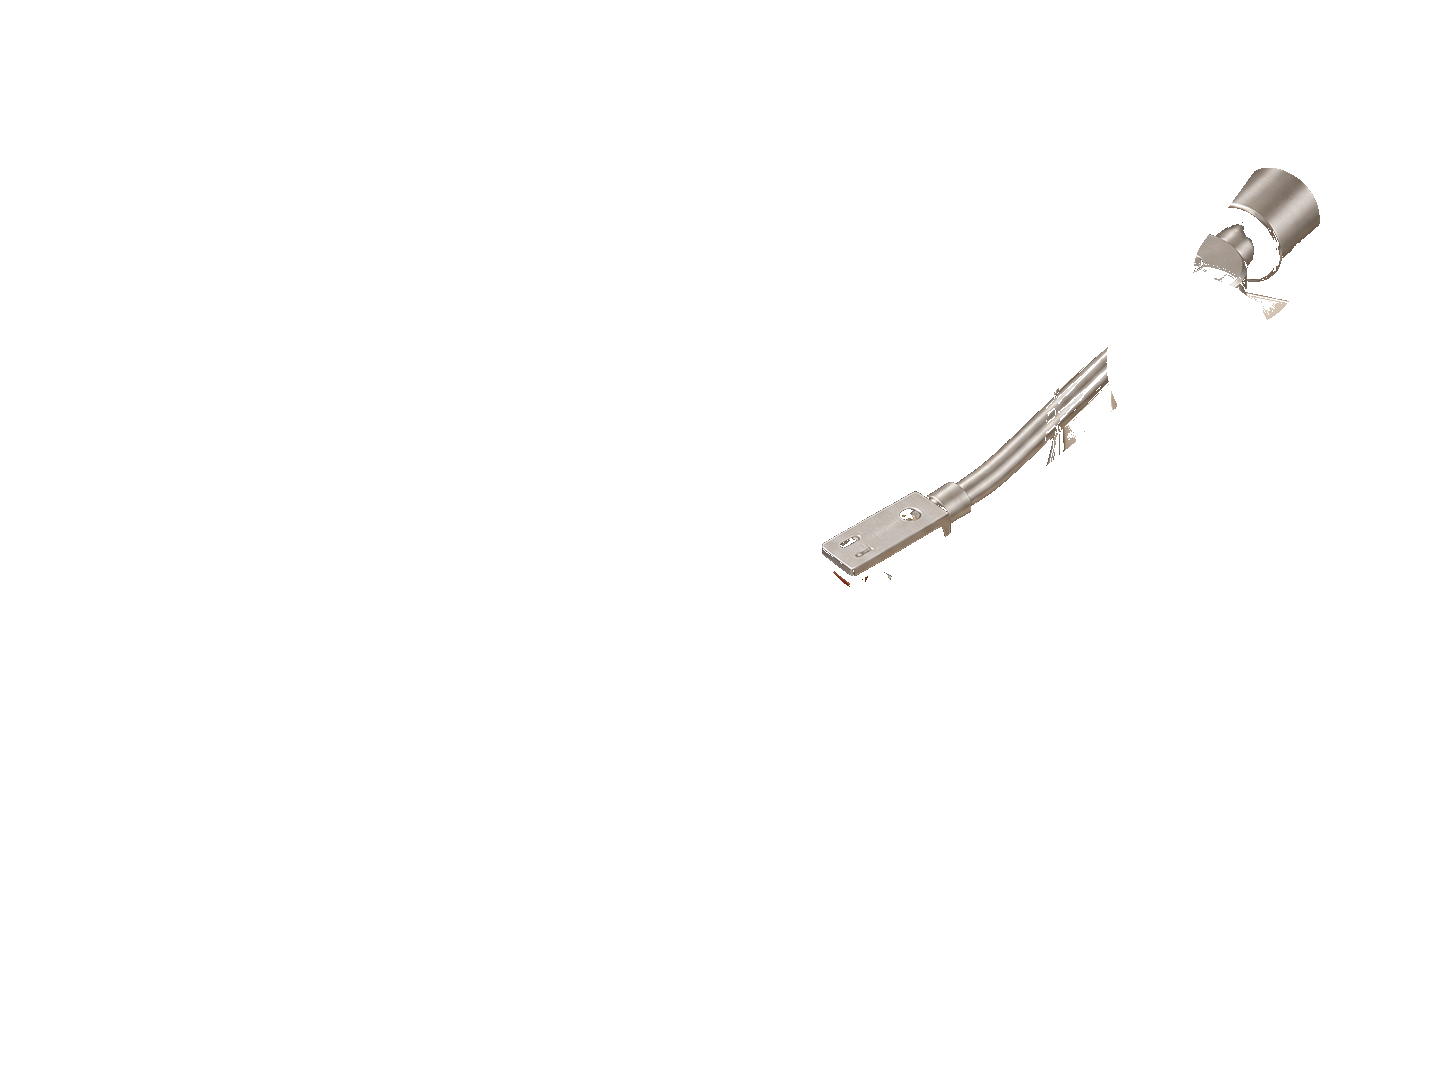
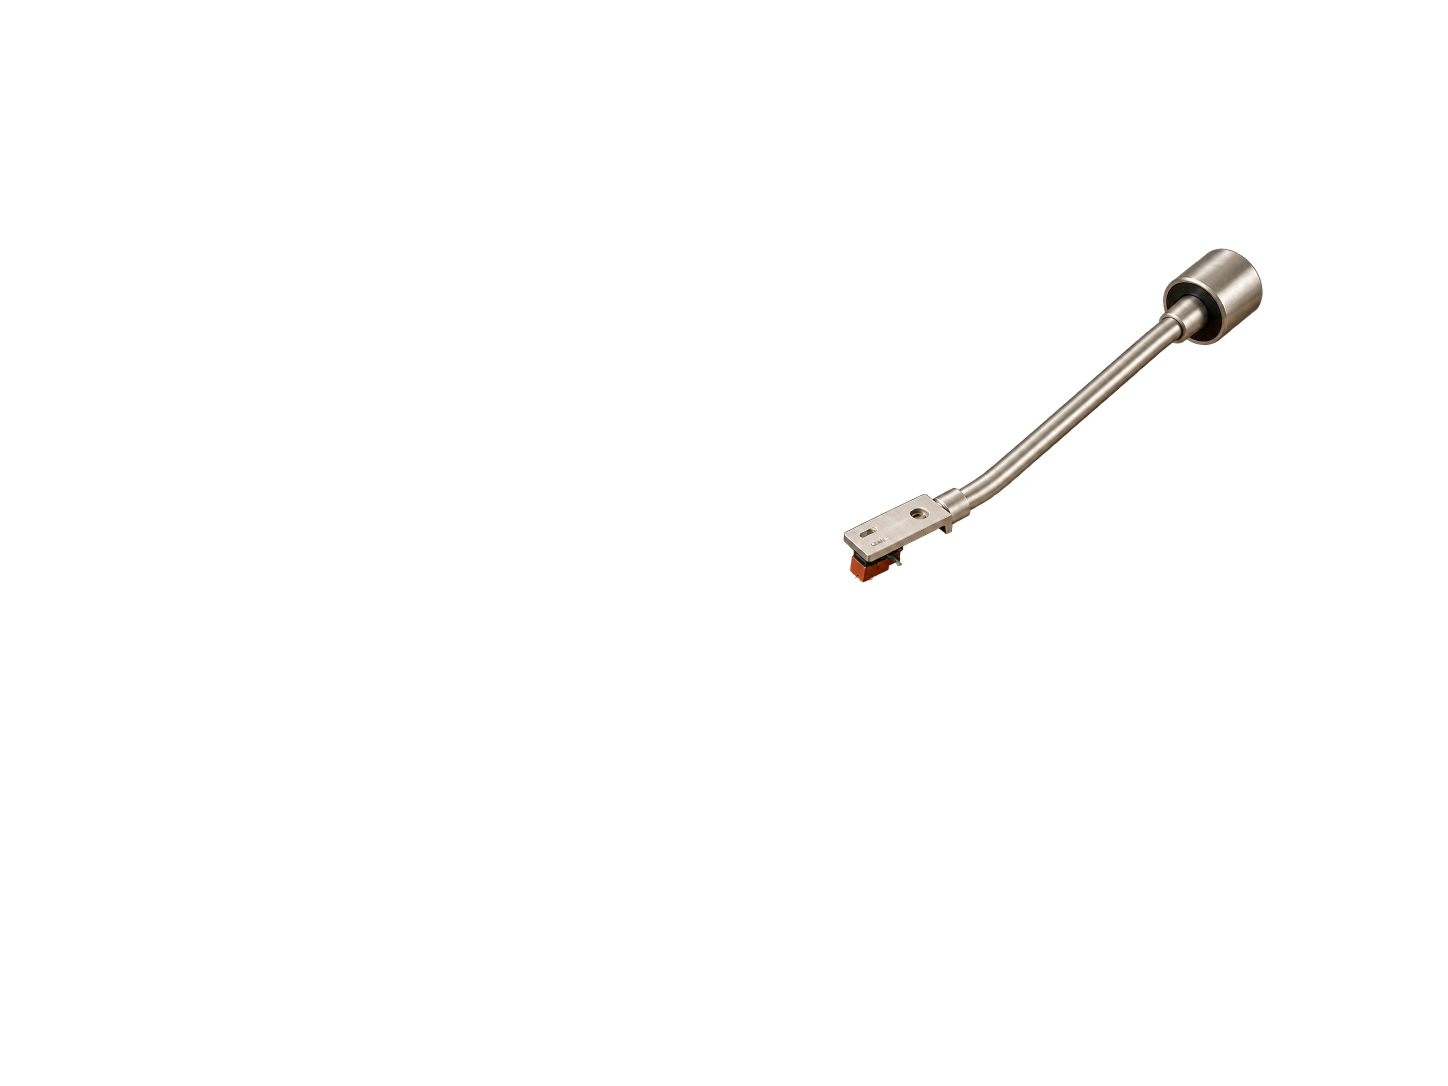
Rebuild the tonearm from its own asset; swap the pulsing ring for a deck marking
The arm was being cut out of turntable-master-reference.png, which fringed
and broke up: master and base are separate generations whose bodies don't
line up, so pixels lifted near the bearing doubled its edges, and no
threshold cleanly separated a silver arm from a cream deck. Several passes
of band masking, morphology and feathering all still showed the seams.

tonearm-overlay.png turns out to be the right source after all — it is a
cleanly matted transparent render on the same canvas, and the earlier
reading that it "didn't match" was about framing, not perspective: its arm
is drawn 1.8x longer at 4 degrees off. scripts/extractTonearm.js now fits
it with a similarity transform instead. Matching its collar to the bearing
rather than its counterweight tip is what seats it mechanically; fitting
the tips left the tube lying across the bearing like a pipe. That also
moves the rotation origin onto the collar, so the cue-down swings from the
joint instead of sliding it out of its housing.

The focus ring pulsing around the dial is replaced by a play mark printed
on the deck below it, squashed into the deck's plane by the same factor as
the record so it sits on the surface. It stays put rather than retiring
after first use — it labels the control, it isn't a nudge.

Changed region(s): [[0.5594, 0.1519, 0.9323, 0.547]]

diff --git a/scripts/extractTonearm.js b/scripts/extractTonearm.js
@@ -1,0 +1,76 @@
+// Builds public/images/tonearm-cutout-v2.png — the tonearm layer the hero
+// composites over turntable-base.png.
+//
+// The arm comes from tonearm-overlay.png, which is already a cleanly matted
+// transparent render. Cutting one out of turntable-master-reference.png was
+// tried first and looked wrong: master and base are two separate generations
+// whose bodies don't line up, so pixels lifted near the bearing doubled its
+// edges and the matte fringed wherever the arm crossed the cream deck.
+//
+// tonearm-overlay.png shares the 1448x1086 canvas but draws the arm longer
+// and at a slightly different angle, so it is fitted with a similarity
+// transform: its counterweight and stylus tips are mapped onto where those
+// points sit in the master reference, which is where the arm reads correctly
+// against this deck.
+//
+//   node scripts/extractTonearm.js
+
+import sharp from 'sharp'
+
+const W = 1448, H = 1086
+
+// Two-point fit. Matching the arm's collar to the deck's bearing is what
+// seats it mechanically — fitting the counterweight tip instead left the tube
+// lying across the bearing like a pipe rather than pivoting in it.
+const SRC_COLLAR = { x: 1250, y: 272 }     // where the tube widens into its joint
+const SRC_STYLUS = { x: 673, y: 768 }
+const DST_COLLAR = { x: 1193, y: 315 }     // top of the bearing housing in the base art
+const DST_STYLUS = { x: 850, y: 570 }      // resting point on the record
+
+const idx = (x, y) => y * W + x
+
+;(async () => {
+  const src = await sharp('public/images/tonearm-overlay.png').raw().ensureAlpha().toBuffer()
+
+  const da = { x: SRC_STYLUS.x - SRC_COLLAR.x, y: SRC_STYLUS.y - SRC_COLLAR.y }
+  const db = { x: DST_STYLUS.x - DST_COLLAR.x, y: DST_STYLUS.y - DST_COLLAR.y }
+  const scale = Math.hypot(db.x, db.y) / Math.hypot(da.x, da.y)
+  const theta = Math.atan2(db.y, db.x) - Math.atan2(da.y, da.x)
+  console.log({ scale: +scale.toFixed(4), degrees: +(theta * 180 / Math.PI).toFixed(2) })
+
+  // Inverse map so every output pixel samples the source bilinearly.
+  const cos = Math.cos(-theta), sin = Math.sin(-theta), inv = 1 / scale
+  const out = Buffer.alloc(W * H * 4, 0)
+  for (let y = 0; y < H; y++) for (let x = 0; x < W; x++) {
+    const px = x - DST_COLLAR.x, py = y - DST_COLLAR.y
+    const sx = (px * cos - py * sin) * inv + SRC_COLLAR.x
+    const sy = (px * sin + py * cos) * inv + SRC_COLLAR.y
+    if (sx < 0 || sy < 0 || sx >= W - 1 || sy >= H - 1) continue
+
+    const x0 = Math.floor(sx), y0 = Math.floor(sy)
+    const fx = sx - x0, fy = sy - y0
+    const w00 = (1 - fx) * (1 - fy), w10 = fx * (1 - fy)
+    const w01 = (1 - fx) * fy, w11 = fx * fy
+    const i00 = idx(x0, y0) * 4, i10 = idx(x0 + 1, y0) * 4
+    const i01 = idx(x0, y0 + 1) * 4, i11 = idx(x0 + 1, y0 + 1) * 4
+
+    const a = src[i00+3]*w00 + src[i10+3]*w10 + src[i01+3]*w01 + src[i11+3]*w11
+    if (a < 3) continue
+
+    // Blend colour weighted by each sample's own alpha, otherwise transparent
+    // neighbours drag the edge pixels toward black.
+    const aw00 = w00*src[i00+3], aw10 = w10*src[i10+3], aw01 = w01*src[i01+3], aw11 = w11*src[i11+3]
+    const awSum = aw00 + aw10 + aw01 + aw11
+    const o = idx(x, y) * 4
+    for (let c = 0; c < 3; c++) {
+      out[o + c] = Math.round((src[i00+c]*aw00 + src[i10+c]*aw10 + src[i01+c]*aw01 + src[i11+c]*aw11) / awSum)
+    }
+    // Nudge the near-opaque body to fully opaque; the source sits at ~253.
+    out[o + 3] = Math.min(255, Math.round(a * 1.02))
+  }
+
+  await sharp(out, { raw: { width: W, height: H, channels: 4 } })
+    .png({ compressionLevel: 9 })
+    .toFile('public/images/tonearm-cutout-v2.png')
+  console.log('written public/images/tonearm-cutout-v2.png')
+})()

diff --git a/public/css/index.css b/public/css/index.css
@@ -504,13 +504,13 @@ button:active {
   border-radius: 50%;
 }
 
-/* The arm art is cut from the reference in its playing position, so rest is
-   expressed as a swing back out from the bearing at (1192, 362) — hence the
-   origin. Rotating in 2D is an approximation of a pivot in the deck's plane,
-   which holds up at this small an angle. */
+/* The arm layer is fitted with its collar on the bearing at (1193, 315), so
+   that point is the origin — rotate about the bearing's centre instead and
+   the collar slides sideways out of its housing. Rotating in 2D is an
+   approximation of a pivot in the deck's plane, which holds at this angle. */
 .turntable-stage .tt-tonearm {
   z-index: 4;
-  transform-origin: 82.32% 33.33%;
+  transform-origin: 82.39% 29%;
   transform: rotate(-13deg);
   transition: transform 1000ms cubic-bezier(0.22, 0.61, 0.36, 1);
   pointer-events: none;
@@ -546,24 +546,24 @@ button:active {
   outline-offset: 3px;
 }
 
-/* Ring + caption that point out the dial, retired for good once the visitor
-   has pressed it once. */
-.tt-power::after {
-  content: '';
+/* A play mark screen-printed on the deck under the dial, squashed into the
+   deck's plane by the same factor as the record so it sits on the surface
+   rather than floating over it. Permanent, like the markings on real gear. */
+.tt-cue {
   position: absolute;
-  inset: -8%;
-  border-radius: 50%;
-  border: 1px solid rgba(192, 57, 43, 0.5);
-  animation: tt-pulse 2.6s ease-out infinite;
+  z-index: 4;
+  left: 78.2%;
+  top: 72.2%;
+  width: 2.1%;
+  height: 3.1%;
+  background: var(--color-accent);
+  opacity: 0.75;
+  clip-path: polygon(0 0, 100% 50%, 0 100%);
+  transform: scaleY(0.62);
   pointer-events: none;
 }
 
-@keyframes tt-pulse {
-  0%   { transform: scale(0.92); opacity: 0; }
-  30%  { opacity: 0.75; }
-  100% { transform: scale(1.32); opacity: 0; }
-}
-
+/* Caption pointing out the dial, retired for good once it has been used. */
 .tt-hint {
   position: absolute;
   z-index: 5;
@@ -579,15 +579,12 @@ button:active {
   pointer-events: none;
 }
 
-.turntable-stage.has-played .tt-power::after,
 .turntable-stage.has-played .tt-hint {
   opacity: 0;
-  animation: none;
 }
 
 @media (prefers-reduced-motion: reduce) {
   .turntable-stage .tt-tonearm { transition: none; }
-  .tt-power::after { animation: none; opacity: 0.5; }
 }
 
 .tt-lamp {

diff --git a/public/index.html b/public/index.html
@@ -73,6 +73,7 @@
         <img class="tt-spindle" src="images/spindle.png" alt="">
         <img class="tt-tonearm" src="images/tonearm-cutout-v2.png" alt="">
         <button class="tt-power" id="tt-power" type="button" aria-label="Play record"></button>
+        <span class="tt-cue" aria-hidden="true"></span>
         <span class="tt-lamp" id="tt-lamp" aria-hidden="true"></span>
         <span class="tt-hint" aria-hidden="true">&#8598;&nbsp; Press the dial to play</span>
         <audio id="tt-audio" preload="none" src="https://audio-ssl.itunes.apple.com/itunes-assets/AudioPreview211/v4/54/e8/0a/54e80a8b-1d60-6b59-e908-6fd65c4ff783/mzaf_2469862574651846302.plus.aac.p.m4a"></audio>
